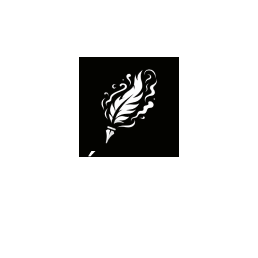
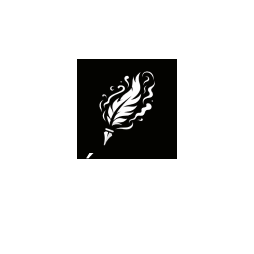
added responsive design

Changed region(s): [[0.3031, 0.2205, 0.7165, 0.6339]]

diff --git a/assets/styles/home.scss b/assets/styles/home.scss
@@ -12,7 +12,7 @@
             font-family: $main-font;
             font-weight: bold;
             color: white;
-            font-size: 2rem;
+            font-size: 3vw;
             width: 600px;
             margin-left: 20px;
             padding: 20px;
@@ -22,10 +22,9 @@
 
         .subtitle {
             color: white;
-            font-size: 1.5rem;
+            font-size: 2vw;
             font-weight: bold;
             border-left: solid white 3px;
-            font-size: 1.5rem;
             padding: 20px;
             margin-left: 20px;
         }
@@ -33,7 +32,7 @@
         #main-pres {
             color: white;
             border-left: solid white 3px;
-            font-size: 1.5rem;
+            font-size: 1.5vw;
             padding: 20px;
             margin-left: 20px;
             width: 500px;
@@ -53,12 +52,26 @@
     #wheel {
         width: 35vw;
         height: 35vw;
-        margin-left: 5vw;
+        margin-left: 11vw;
         position: relative;
         display: flex;
         align-items: center;
         justify-content: center;
         border-radius: 50%;
+
+        #circle-center {
+            width: 43%;
+            height: 43%;
+            border-radius: 50%;
+            background-color: $black;
+            background-image: url('/public/build/images/write-btn-dsk.png');
+            background-size: cover;
+            box-shadow: 0 0 15px 1px rgba(255, 255, 255, 1);
+        }
+
+        #circle-center:hover {
+            box-shadow: 0 0 25px 8px rgba(255, 255, 255, 1);
+        }
 
         .circle-segment {
             position: absolute;
@@ -78,8 +91,8 @@
 
             #circle-segment-text1 {
                 margin-top: 25%;
-
             }
+
 
             #circle-segment-text2 {
                 margin-top: 22%;
@@ -114,17 +127,233 @@
             }
 
         }
-    }
 
-    #wheel::before {
-        width: 43%;
-        height: 43%;
-        content: "";
-        border-radius: 50%;
-        border: solid $black;
-        border-width: 20%;
-        background-color: $black;
-        background-image: url('/public/build/images/write-btn-dsk.png');
-        background-size: cover;
+        .circle-segment:hover {
+            height: 42%;
+            width: 38%;
+        }
+    }
+}
+
+@media screen and (max-width: 768px) {
+
+    #home-container {
+
+        display: flex;
+        flex-direction: column;
+        padding: 5px;
+        margin: 0 auto;
+        width: 100%;
+        justify-content: center;
+
+        #pres-container {
+
+            display: flex;
+            flex-direction: column;
+            width: 100%;
+
+            .title {
+                border-left: solid white 0px;
+                border-top: solid white 0px;
+                margin-left: auto;
+                margin-right: auto;
+                padding-top: 2vw;
+                padding-bottom: 2vw;
+                text-align: center;
+                width: 90%;
+                font-size: 4vw;
+            }
+
+            .subtitle {
+                border-left: solid white 0px;
+                padding: 0px;
+                margin: 0px;
+                text-align: center;
+                width: 100%;
+                padding-bottom: 2vw;
+                font-size: 3vw;
+            }
+
+            #main-pres {
+                border-left: solid white 0px;
+                padding: 0px;
+                margin: 0 auto;
+                text-align: center;
+                width: 70%;
+                font-size: 2.5vw;
+
+
+                span {
+                    font-weight: bold;
+                }
+
+                #link-write {
+                    color: white;
+                    font-weight: bold;
+                    text-decoration: none;
+                }
+            }
+        }
+
+        #wheel {
+            margin-top: 7vw;
+            margin-left: auto;
+            margin-right: auto;
+            margin-bottom: 7vw;
+            height: 55vw;
+            width: 55vw;
+        }
+    }
+}
+
+@media screen and (max-width: 425px) {
+
+    #home-container {
+
+        display: flex;
+        flex-direction: column;
+        padding: 5px;
+        width: 90vw;
+        justify-content: center;
+
+        #pres-container {
+
+            display: block;
+            flex-direction: column;
+            width: 90vw;
+            margin-left: auto;
+            margin-right: auto;
+            text-align: center;
+            justify-content: center;
+
+            .title {
+                border-left: solid white 0px;
+                border-top: solid white 0px;
+                padding-top: 1.5vw;
+                padding-bottom: 1.5vw;
+                text-align: center;
+                font-size: 5vw;
+                font-weight: bold;
+            }
+
+            .subtitle {
+                border-left: solid white 0px;
+                padding: 0px;
+                margin: 0px;
+                text-align: center;
+                width: 100%;
+                padding-top: 1vw;
+                padding-bottom: 1.5vw;
+                font-size: 4vw;
+                font-weight: bold;
+            }
+
+            #main-pres {
+                border-left: solid white 0px;
+                padding: 0px;
+                margin: 0 auto;
+                text-align: center;
+                width: 90%;
+                font-size: 3.5vw;
+
+                span {
+                    font-weight: bold;
+                }
+
+                #link-write {
+                    color: white;
+                    font-weight: bold;
+                    text-decoration: none;
+                }
+            }
+        }
+
+        #wheel {
+            width: 70vw;
+            height: 70vw;
+            margin-top: 10vw;
+            margin-left: auto;
+            margin-right: auto;
+            margin-bottom: 7vw;
+            position: relative;
+            display: flex;
+            align-items: center;
+            justify-content: center;
+            border-radius: 50%;
+
+            #circle-center {
+                width: 43%;
+                height: 43%;
+                border-radius: 50%;
+                background-color: $black;
+                background-image: url('/public/build/images/write-btn-dsk.png');
+                background-size: cover;
+                box-shadow: 0 0 15px 1px rgba(255, 255, 255, 1);
+            }
+
+            #circle-center:hover {
+                box-shadow: 0 0 25px 8px rgba(255, 255, 255, 1);
+            }
+
+            .circle-segment {
+                position: absolute;
+                height: 40%;
+                width: 36%;
+                background-size: cover;
+                display: flex;
+                justify-content: center;
+                align-items: center;
+
+                .circle-segment-text {
+                    color: white;
+                    position: absolute;
+                    font-weight: bold;
+                    font-size: 2vw;
+                }
+
+                #circle-segment-text1 {
+                    margin-top: 25%;
+                }
+
+
+                #circle-segment-text2 {
+                    margin-top: 22%;
+                }
+
+                #circle-segment-text3 {
+                    margin-top: 8%;
+                }
+
+                #circle-segment-text4 {
+                    margin-top: 15%;
+
+                }
+
+                #circle-segment-text5 {
+                    margin-top: 25%;
+                    margin-right: 4%;
+                }
+
+                #circle-segment-text6 {
+                    margin-top: 25%;
+                    margin-right: 5%;
+                }
+
+                #circle-segment-text7 {
+                    margin-top: 20%;
+                }
+
+                #circle-segment-text8 {
+                    margin-right: 2%;
+                    margin-top: 20%;
+                }
+
+            }
+
+            .circle-segment:hover {
+                height: 42%;
+                width: 38%;
+            }
+        }
     }
 }

diff --git a/assets/scripts/circle.js b/assets/scripts/circle.js
@@ -1,4 +1,6 @@
 document.addEventListener('DOMContentLoaded', function () {
+
+    // if (window.innerWidth > 425) {
     const segments = document.getElementsByClassName('circle-segment');
     const texts = document.getElementsByClassName('circle-segment-text');
 
@@ -17,6 +19,8 @@ document.addEventListener('DOMContentLoaded', function () {
         element.style.backgroundImage = `url('/build/images/wheel-segment${i + 1}.svg')`;
     }
 
+
+
     for (let i = 0; i < segments.length; i++) {
         let angle = (((Math.PI * 2) / segments.length) * i + 22.46);
         console.log(texts.length);
@@ -24,4 +28,5 @@ document.addEventListener('DOMContentLoaded', function () {
         positionText(texts[i], i);
         backgroundSegment(segments[i], i);
     }
+    // }
 });

diff --git a/assets/styles/partials/_footer.scss b/assets/styles/partials/_footer.scss
@@ -1,6 +1,7 @@
 .footer {
-    display: flex;
+    display: block;
     background-color: $black;
+    margin-top: 7vw;
     height: 50px;
     width: 100%;
     position: fixed;
